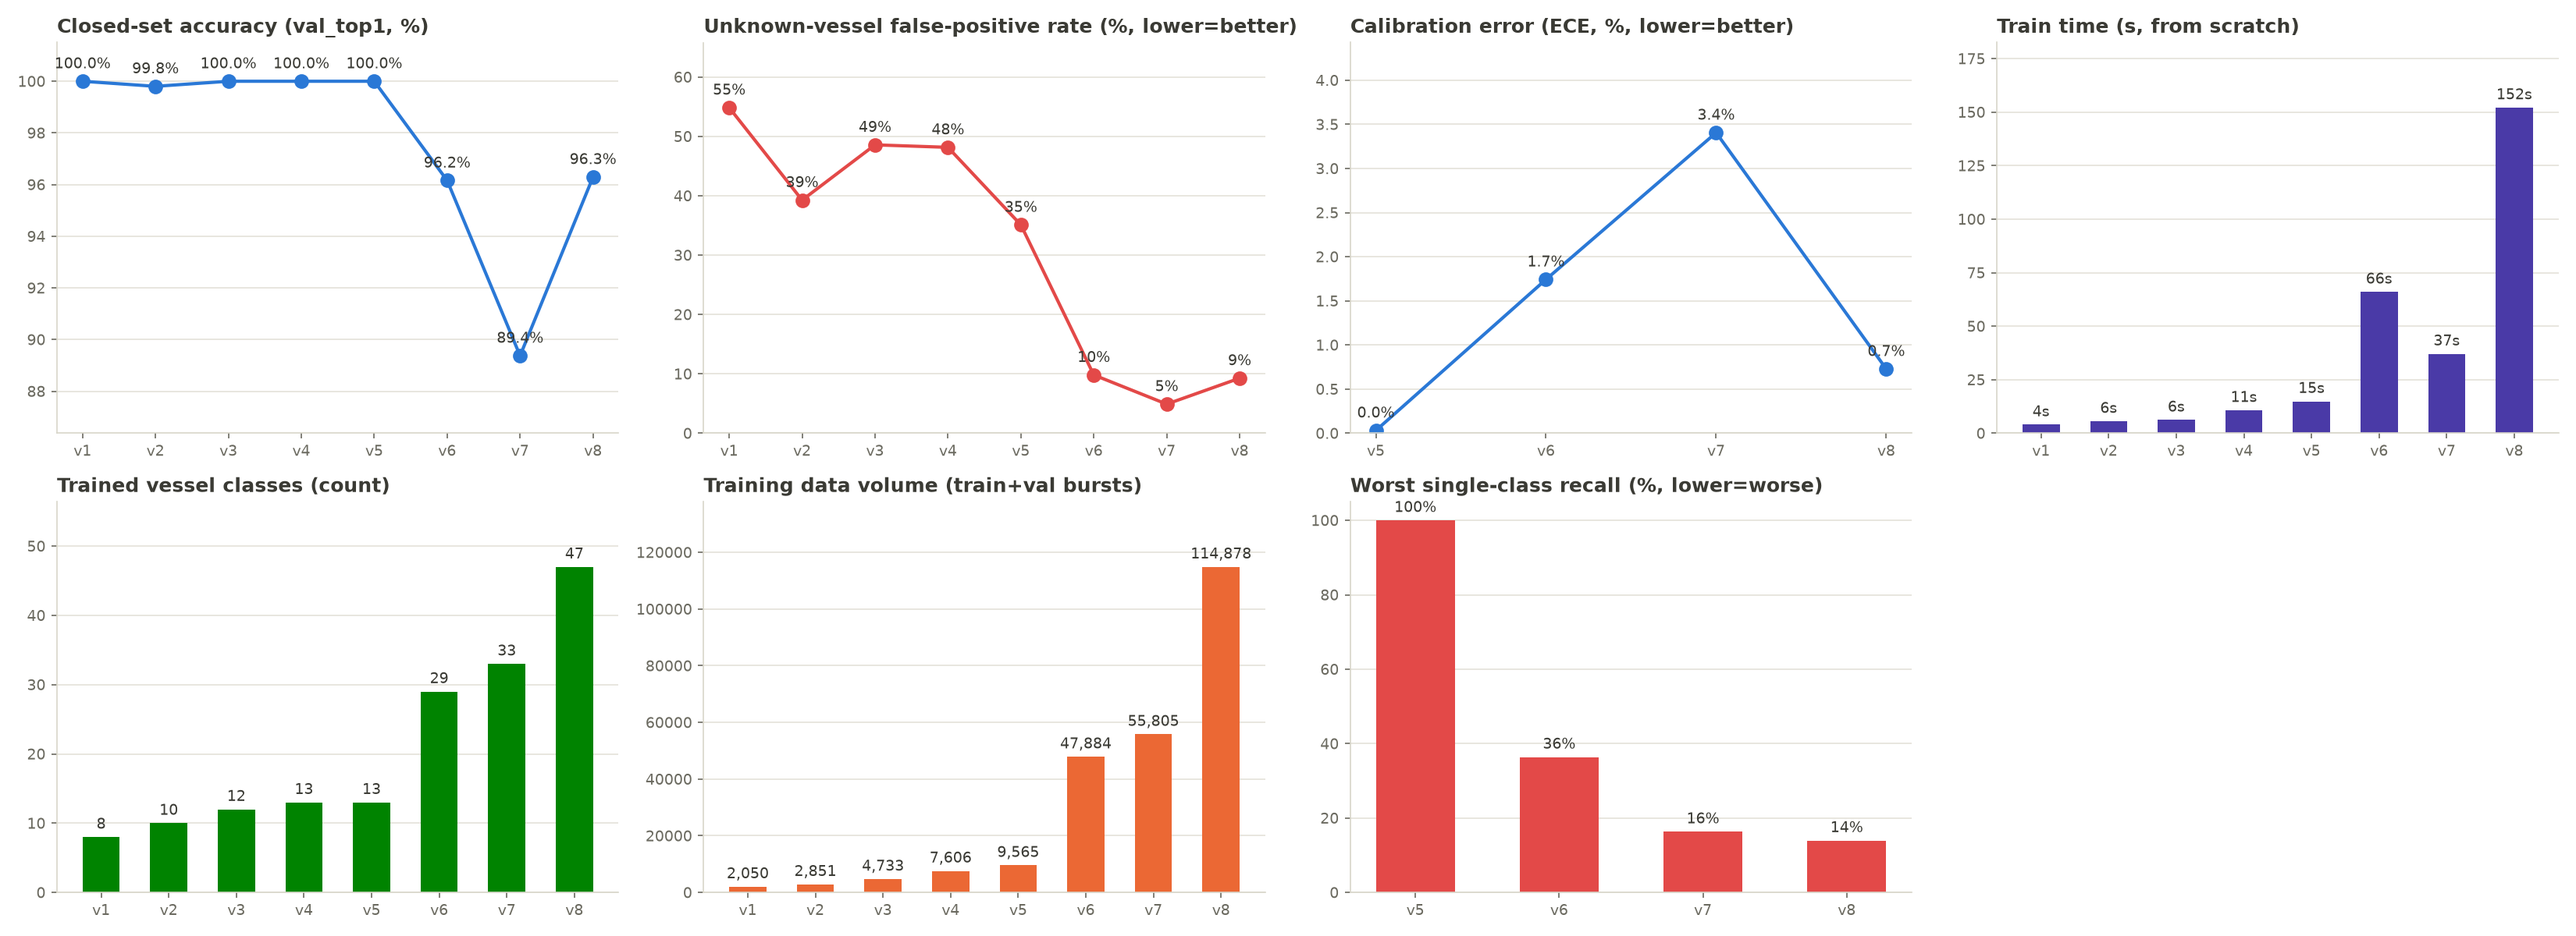
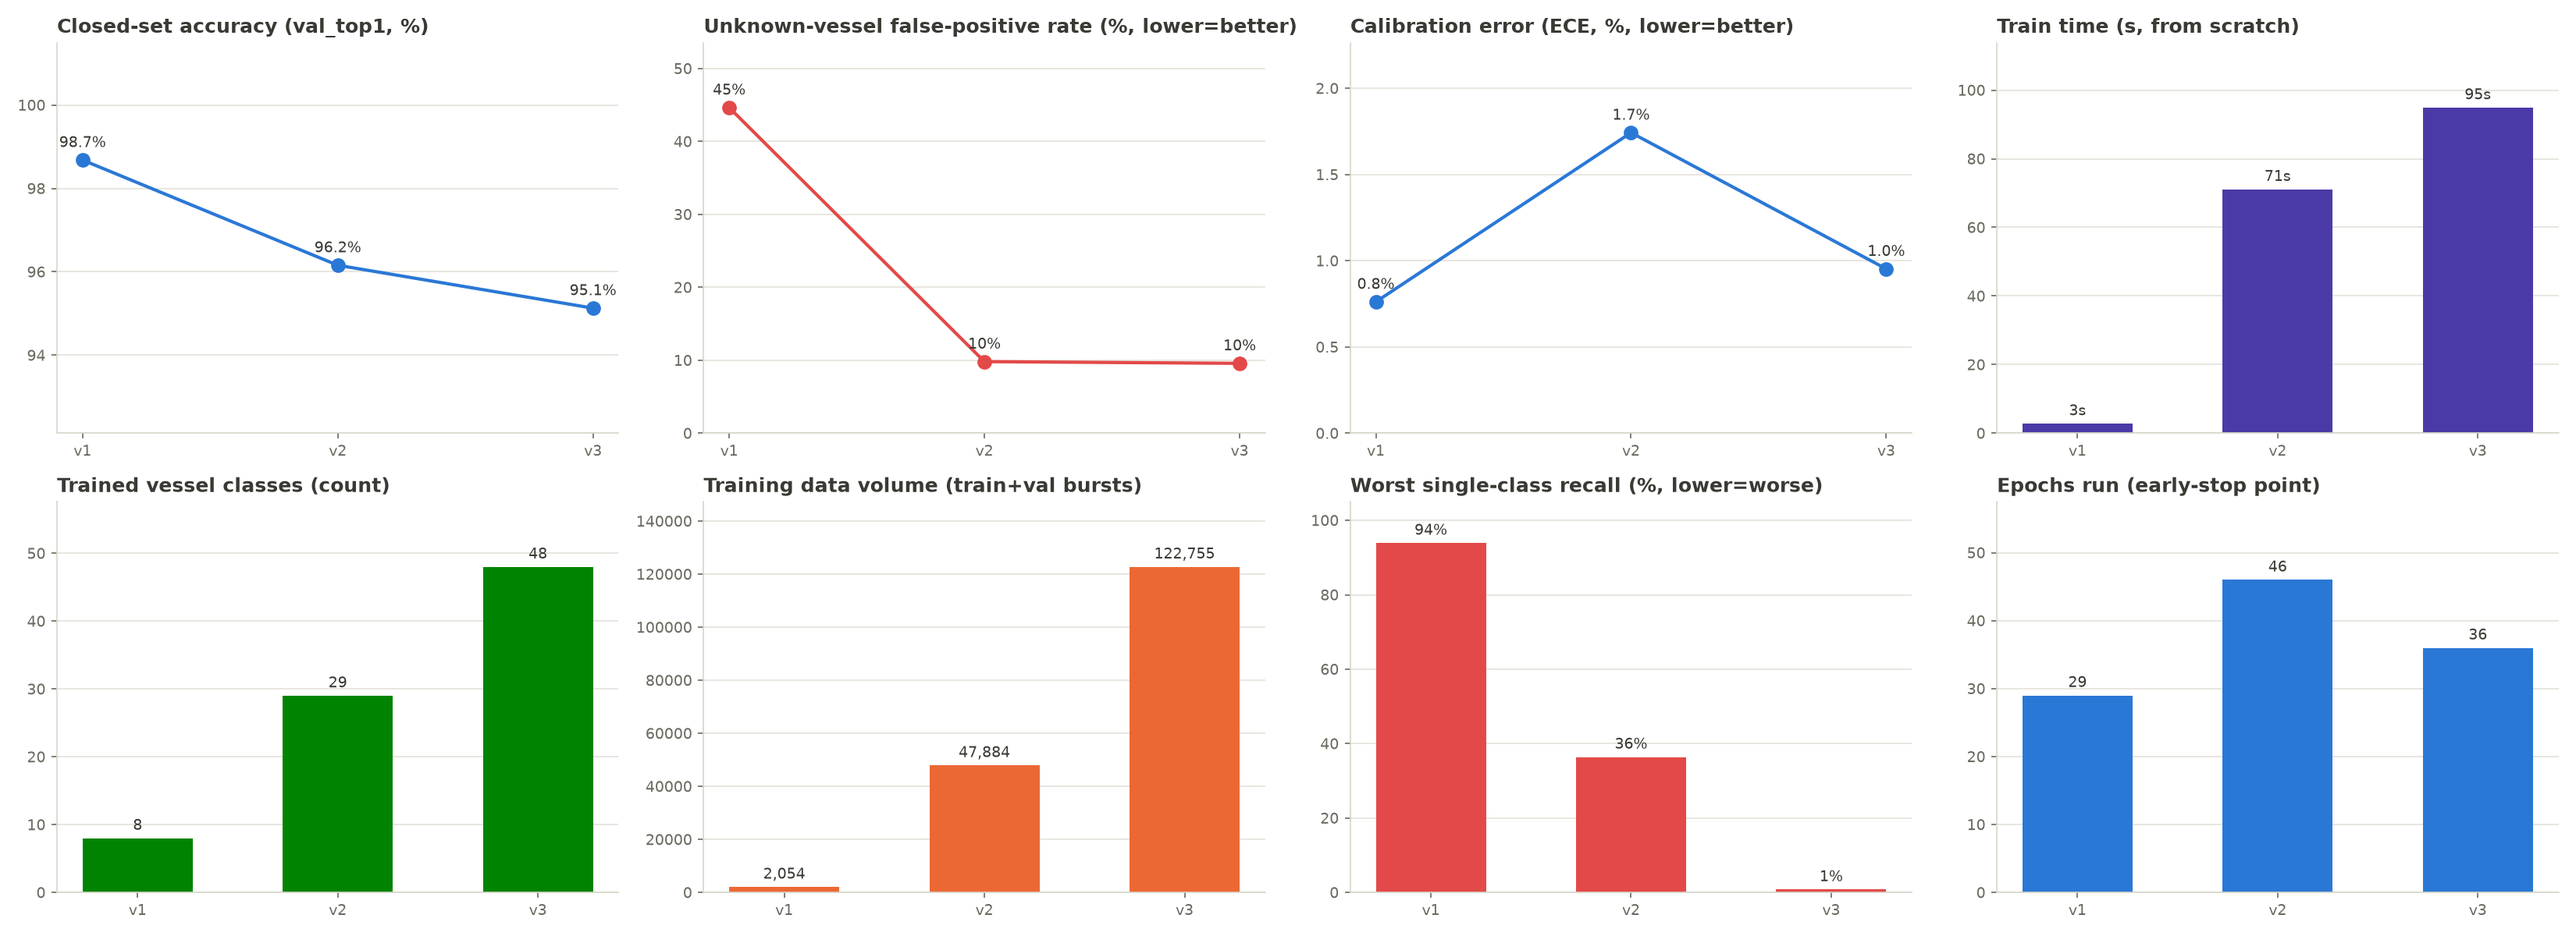
BEAE/ais: record epochs-run metric + consolidate history to v1-v3
Add epochs_run to the training meta/CSV and an "Epochs run" chart panel.
It explains why train time doesn't track dataset size: wall-clock is
driven by how many epochs a run takes before early-stop, not by sample
count — a run that plateaus early finishes faster even on more data.

Consolidate the model history from five rows to three: keep v1 (initial
8-class), fold the old v2/v3 pair down to the stronger v2 (29-class,
96.2% top1 vs the discarded 89.4%), and the old v4/v5 pair down to the
better-balanced v5 -> v3 (48-class: ECE 1.0%, worst-class recall 1%).

diff --git a/BEAE/ais/ais_ai/history_log.py b/BEAE/ais/ais_ai/history_log.py
@@ -11,7 +11,7 @@ FIELDS = [
     "version", "model_name", "trained_at", "classes", "train_n", "val_n",
     "val_top1", "val_bal_acc", "false_unknown", "natural_unknown_fpr",
     "ece", "worst_class_mmsi", "worst_class_recall",
-    "param_count", "model_bytes", "train_seconds",
+    "epochs_run", "param_count", "model_bytes", "train_seconds",
 ]
 
 
@@ -45,6 +45,7 @@ def record(model_dir, history_dir, version):
         "ece": meta.get("ece"),
         "worst_class_mmsi": meta.get("worst_class_mmsi"),
         "worst_class_recall": meta.get("worst_class_recall"),
+        "epochs_run": meta.get("epochs_run"),
         "param_count": _param_count(model_path),
         "model_bytes": os.path.getsize(model_path),
         "train_seconds": meta.get("train_seconds"),
@@ -102,6 +103,7 @@ def _plot_charts(rows, charts_dir):
     classes = [int(r["classes"]) for r in rows]
     train_n = [int(r["train_n"]) + int(r["val_n"]) for r in rows]
     train_s = [float(r["train_seconds"]) for r in rows]
+    epochs = [int(r["epochs_run"]) if r.get("epochs_run") else None for r in rows]
     # ece/worst_class_recall are absent from pre-existing rows (added later) —
     # only plot versions that actually have them rather than faking a 0.
     ece_v = [(v, float(r["ece"]) * 100) for v, r in zip(versions, rows) if r.get("ece")]
@@ -196,7 +198,20 @@ def _plot_charts(rows, charts_dir):
     ax.set_ylim(0, max(train_s) * 1.2)
     _style_axis(ax, "Train time (s, from scratch)")
 
-    axes[1][3].axis("off")   # 8th cell unused — 7 metrics in a 2x4 grid
+    # Epochs actually run before early-stop. This is why train time doesn't track
+    # data volume: a run that plateaus early stops sooner and finishes faster
+    # (fewer epochs), even on a bigger dataset — the real driver of wall-clock.
+    ax = axes[1][3]
+    ep_v = [(v, e) for v, e in zip(versions, epochs) if e is not None]
+    if ep_v:
+        vv, ee = zip(*ep_v)
+        bars = ax.bar(vv, ee, color=_BLUE, width=0.55)
+        ax.bar_label(bars, padding=3, fontsize=9, color=_INK)
+        ax.set_ylim(0, max(ee) * 1.25)
+    else:
+        ax.text(0.5, 0.5, "no data yet", transform=ax.transAxes, ha="center",
+                color=_MUTED, fontsize=10)
+    _style_axis(ax, "Epochs run (early-stop point)")
 
     fig.tight_layout()
     fig.savefig(os.path.join(charts_dir, "training_trend.png"), dpi=150, facecolor="white")

diff --git a/BEAE/ais/ais_ai/train.py b/BEAE/ais/ais_ai/train.py
@@ -139,6 +139,7 @@ def _fit(cfg: Config, bursts, crop: str, log=print):
             if bad >= cfg.patience:
                 log(f"early stop at epoch {ep + 1}")
                 break
+    epochs_run = ep + 1   # epochs actually executed (early-stop point or max)
     model.load_state_dict(best_state)
 
     # ── calibration ────────────────────────────────────────────────────────
@@ -177,6 +178,7 @@ def _fit(cfg: Config, bursts, crop: str, log=print):
         "ece": ece, "per_class_recall": per_class_recall,
         "worst_class_mmsi": worst_mmsi, "worst_class_recall": worst_recall,
         "train_n": int(len(tr_x)), "val_n": int(len(va_x)),
+        "epochs_run": epochs_run,
         "trained_at": time.strftime("%Y-%m-%dT%H:%M:%S%z"),
         "train_seconds": round(time.time() - t0, 1),
     }
